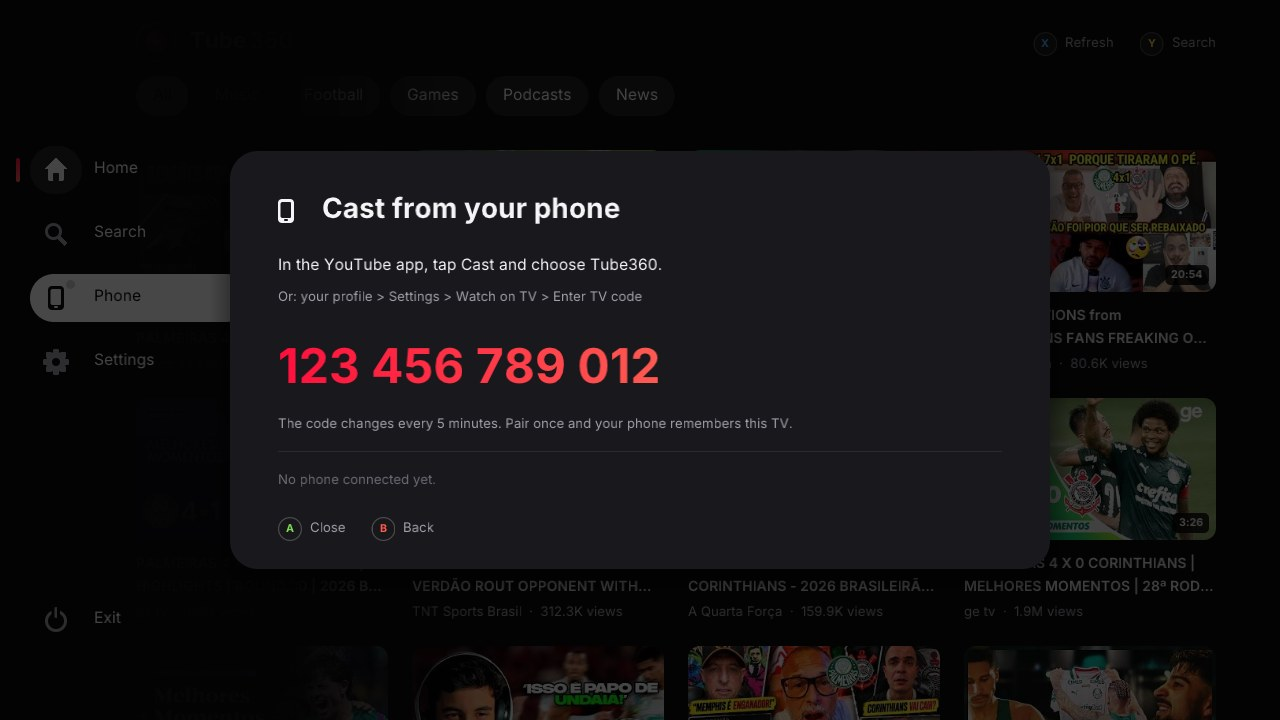
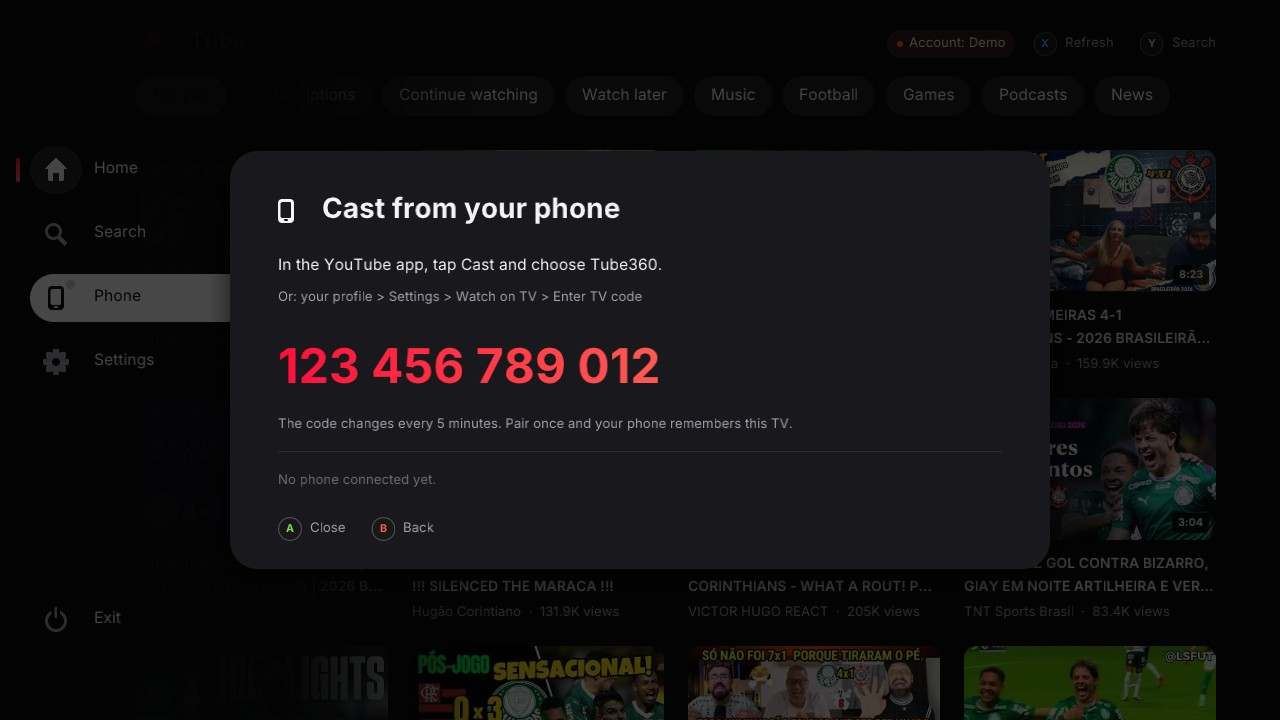
Screenshots of today's app: like/dislike, up next, members-only notice
All screenshots retaken with the current build and a demo account; the sign-in
and Cast codes are placeholders.

diff --git a/README.pt-BR.md b/README.pt-BR.md
@@ -47,8 +47,10 @@ Sem TV stick, sem smart TV, sem navegador. Só o Xbox 360 que você já tem.
 | ![Configurações](docs/img/settings.jpg) | ![Login com código de TV](docs/img/signin.jpg) |
 | **Timer de dormir** | **Transmitir do celular** |
 | ![Aviso do timer](docs/img/sleep-timer.jpg) | ![Pareamento](docs/img/cast.jpg) |
+| **Gostei ou não gostei do vídeo** | **Próximo vídeo automático** |
+| ![Avaliar este vídeo](docs/img/rate.jpg) | ![Contagem para o próximo vídeo](docs/img/up-next.jpg) |
 
-<sub>As telas são do build de PC do cliente, que roda o mesmo código e o mesmo renderizador do build do console, aqui com a interface em inglês. A home de demonstração foi escolha do autor: Palmeiras 4×1 Corinthians e Flamengo 0×3 Palmeiras. 🟢⚪ O código de login é de exemplo.</sub>
+<sub>As telas são do build de PC do cliente, que roda o mesmo código e o mesmo renderizador do build do console, aqui com a interface em inglês. A home de demonstração foi escolha do autor: Palmeiras 4×1 Corinthians e Flamengo 0×3 Palmeiras. 🟢⚪ A conta é de demonstração, e os códigos de login e do Transmitir são de exemplo.</sub>
 
 ---
 

diff --git a/README.md b/README.md
@@ -47,8 +47,10 @@ No TV stick, no smart TV, no browser. Just the Xbox 360 you already have.
 | ![Settings](docs/img/settings.jpg) | ![Sign in with a TV code](docs/img/signin.jpg) |
 | **Sleep timer** | **Cast from the phone** |
 | ![Sleep timer warning](docs/img/sleep-timer.jpg) | ![Cast pairing](docs/img/cast.jpg) |
+| **Like or dislike a video** | **Up next automatically** |
+| ![Rate this video](docs/img/rate.jpg) | ![Up next countdown](docs/img/up-next.jpg) |
 
-<sub>These screenshots come from the PC build of the client, which runs the same code and renderer as the console build. The demo feed is the author's choice: Palmeiras 4×1 Corinthians and Flamengo 0×3 Palmeiras. 🟢⚪ The sign-in code is a placeholder.</sub>
+<sub>These screenshots come from the PC build of the client, which runs the same code and renderer as the console build. The demo feed is the author's choice: Palmeiras 4×1 Corinthians and Flamengo 0×3 Palmeiras. 🟢⚪ The account is a demo one, and the sign-in and Cast codes are placeholders.</sub>
 
 ---
 
